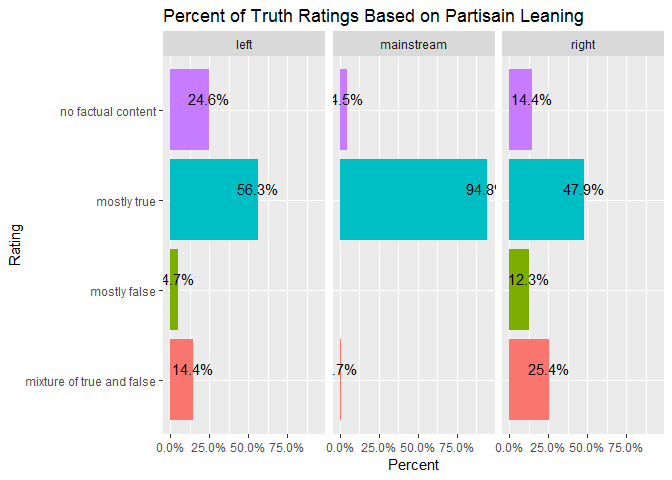
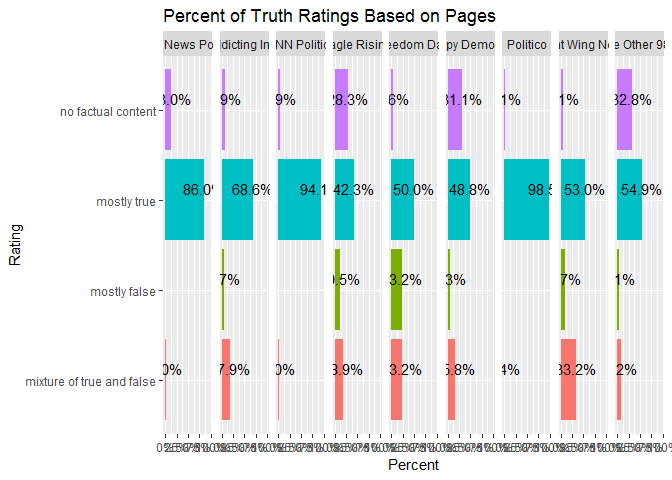
1st few graphs

diff --git a/facebook_factcheck.md b/facebook_factcheck.md
@@ -9,7 +9,13 @@ The social media world is becoming more and more polarized. One of the early gli
 
 • “No Factual Content: This rating is used for posts that are pure opinion, comics, satire, or any other posts that do not make a factual claim. This is also the category to use for posts that are of the “Like this if you think...” variety.
 
-All nine pages have earned the verified blue checkmark from Facebook. The additional data gathered was Facebook engagement numbers (shares, comments, and reactions). Each posts was noted whether it was a link, photo, video, or text The data comes from Kaggle( <https://www.kaggle.com/mrisdal/fact-checking-facebook-politics-pages>.) It was submitted by a journalists from the news site Buzzfeed News and the original story was ( “Hyperpartisan Facebook Pages Are Publishing False And Misleading Information At An Alarming Rate” ) The data was not very messy. I did have to rename some features. Account id, post id, and the post url were integers that were changed to character strings. Date Published was a factor that was changed to a date. There were a few NAs that had to be changed in the columns share count, reaction count, and the comment count. The NAs were changed to the median instead of the mean, because the outliers of all of these columns caused each of them to be heavily skewed to the right.
+DATA SOURCE:
+
+All nine pages have earned the verified blue checkmark from Facebook. The additional data gathered was Facebook engagement numbers (shares, comments, and reactions). Each posts was noted whether it was a link, photo, video, or text The data comes from Kaggle( <https://www.kaggle.com/mrisdal/fact-checking-facebook-politics-pages>.) It was submitted by a journalists from the news site Buzzfeed News and the original story was ( “Hyperpartisan Facebook Pages Are Publishing False And Misleading Information At An Alarming Rate” )
+
+DATA WRANGLING:
+
+The data was not very messy. I did have to rename some features. Account id, post id, and the post url were integers that were changed to character strings. Date Published was a factor that was changed to a date. There were a few NAs that had to be changed in the columns share count, reaction count, and the comment count. The NAs were changed to the median instead of the mean, because the outliers of all of these columns caused each of them to be heavily skewed to the right.
 
 ``` r
 library(dplyr)
@@ -60,6 +66,8 @@ library(scales)
     ##     col_factor
 
 ``` r
+#library(RWeka)
+
 fb<-read.csv("file:///C:/Users/John/Documents/R/fact-checking-facebook-politics-pages/facebook-fact-check.csv")
 
 summary(fb)
@@ -138,11 +146,8 @@ fb[which(is.na(fb$reaction_count)),"reaction_count"]<- 543
 fb[which(is.na(fb$comment_count)),"comment_count"]<- 131
 
 
-ggplot(fb,aes(x=Category, fill= Rating))+
-  geom_bar()+
-  geom_text(aes( label = scales::percent(..prop..),
-                   y= ..prop.. ), stat= "count", vjust = -.5) +
-  scale_y_continuous()+
+ggplot(fb,aes(x=Category,y = percent(1), fill= Rating))+
+   geom_bar(position = "fill",stat = "identity") +
   ggtitle( "Facebook Posts Content Ratings")
 ```
 
@@ -280,6 +285,21 @@ ggplot(data=fb)+
 ![](facebook_factcheck_files/figure-markdown_github/unnamed-chunk-3-3.png)
 
 ``` r
+ggplot(fb,aes(x=Rating, group=Page))+
+  geom_bar(aes(y = ..prop.., fill = factor(..x..)), stat="count") +
+    geom_text(aes( label = scales::percent(..prop..),
+                   y= ..prop.. ), stat= "count", vjust = -.5) +
+    labs(y = "Percent", fill="Rating") +
+    facet_grid(~Page) +
+    scale_y_continuous(labels = scales::percent)+
+  coord_flip()+
+  guides(fill=FALSE)+
+  ggtitle("Percent of Truth Ratings Based on Pages")
+```
+
+![](facebook_factcheck_files/figure-markdown_github/unnamed-chunk-4-1.png)
+
+``` r
 ggplot(fb,aes(x=Rating, group=Category))+
   geom_bar(aes(y = ..prop.., fill = factor(..x..)), stat="count") +
     geom_text(aes( label = scales::percent(..prop..),
@@ -292,7 +312,7 @@ ggplot(fb,aes(x=Rating, group=Category))+
   ggtitle("Percent of Truth Ratings Based on Partisain Leaning")
 ```
 
-![](facebook_factcheck_files/figure-markdown_github/unnamed-chunk-4-1.png)
+![](facebook_factcheck_files/figure-markdown_github/unnamed-chunk-4-2.png)
 
 ``` r
 ggplot(fb, aes(Date.Published, group = Category)) + 
@@ -303,7 +323,7 @@ ggplot(fb, aes(Date.Published, group = Category)) +
   ggtitle("Activity of Posts")
 ```
 
-![](facebook_factcheck_files/figure-markdown_github/unnamed-chunk-4-2.png)
+![](facebook_factcheck_files/figure-markdown_github/unnamed-chunk-4-3.png)
 
 ``` r
 ggplot(fb)+
@@ -311,11 +331,12 @@ ggplot(fb)+
   facet_grid(.~Rating)+
   xlim(0,50000)+
   ylim(0,50000)+
+  labs(x="")+
   ggtitle("Reactions of the pages Based On Truth")
 ```
 
     ## Warning: Removed 128 rows containing missing values (geom_point).
 
-![](facebook_factcheck_files/figure-markdown_github/unnamed-chunk-4-3.png)
+![](facebook_factcheck_files/figure-markdown_github/unnamed-chunk-4-4.png)
 
 Note that the `echo = FALSE` parameter was added to the code chunk to prevent printing of the R code that generated the plot.
